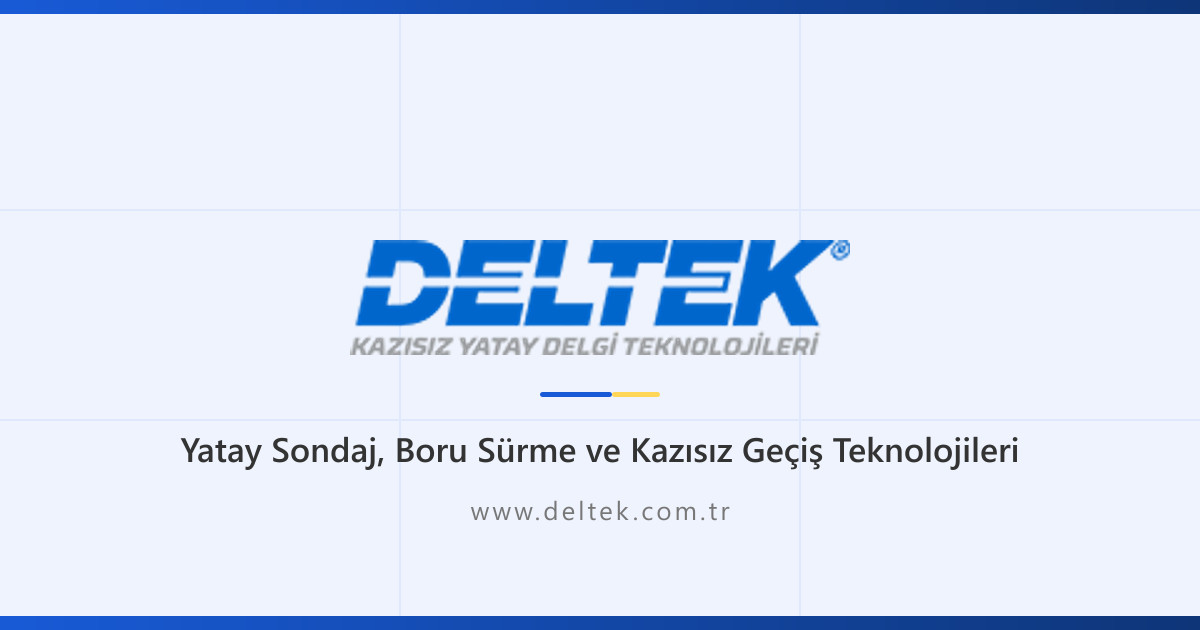
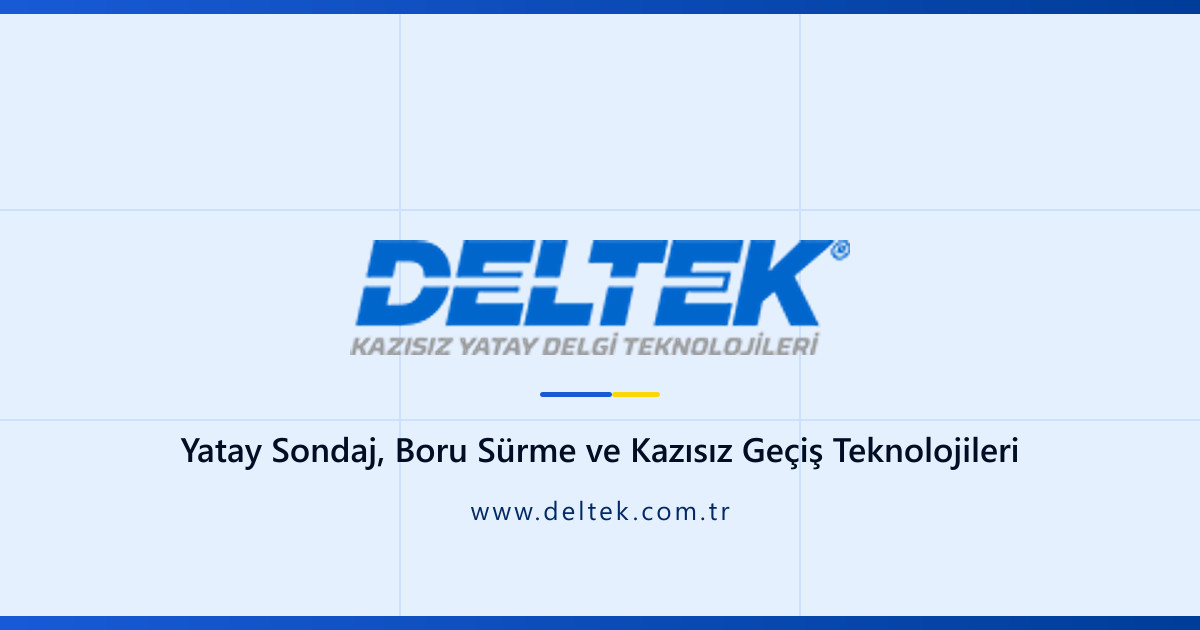
Yeni renk paletini uygula
Tum renkler src/styles/global.css :root'taki palete baglandi. Bilesenlerde
ham hex/rgba kalmadi; saydamlik gerektiren yerlerde rgb(var(--x-rgb) / a)
kullaniliyor.

--marka-mavi (#185AD6) palete eklendi ve DEGISMEDI: baglanti, buton ve
basliklar eskisi gibi duruyor.

Kontrast (WCAG AA) icin duzeltilenler:
- --mute %55 -> %60 karisim (beyaz uzerinde 4.05 -> 5.14)
- amber artik metin rengi degil; acik zeminde vurgulu metin --vurgu-metin
  (--blue-600, 6.82). Telefon butonu hover'inda amber zemin + --blue-950
  yazi (12.0), onceden beyaz yaziyla 1.6 idi
- fotograf uzerindeki slayt govde metni --blue-800 (perde fotografi tam
  beyazlatmadigi icin --mute 3.8'e dusuyordu)
- kapaksiz yazi yer tutucusu --cizgi-2 -> --blue-600 (1.58 -> 5.92)

Denetim: 10 sayfa + 8 slaydin her metin ogesi olculdu, kalan hata yok.

OG betigi de palete gecirildi ve gorsel yeniden uretildi; logo halesi ile
yeni zemin arasindaki fark 1 kanal (kutu gorunmuyor).

diff --git a/src/styles/global.css b/src/styles/global.css
@@ -1,28 +1,66 @@
 /* ═══════════════════════════════════════
    DELTEK — Global CSS
-   Palet canlı deltek.com.tr'den alındı:
-     Mavi   #185AD6  (bağlantılar, butonlar — sitenin ana rengi)
-     Altın  #FFD658  (çizgi/vurgu), #EB9E0F (vurgu metni)
-     Metin  #333 başlık / #777 gövde / #9E9E9E soluk
+
+   RENK PALETİ — sitedeki her renk buradan gelir. Bileşenlerde ham hex/rgba
+   YAZILMAZ; yeni bir tona ihtiyaç olursa önce buraya eklenir.
+   Ayrıntı ve kullanım tablosu: CLAUDE.md → "Renk paleti".
+
    Tipografi: Open Sans (canlı sitenin kullandığı aile)
    ═══════════════════════════════════════ */
 
 :root {
-  --mavi:     #185ad6;
-  --mavi-700: #1449ac;
-  --mavi-900: #0e3578;
-  --mavi-050: #eef3fd;
-  --mavi-100: #dbe6fb;
-  --beyaz:    #ffffff;
-  --kagit:    #f7f8fa;
-  --kagit-2:  #eef0f3;
-  --metin:    #333333;
-  --mute:     #777777;
-  --cizgi:    #e6e8ec;
-  --cizgi-2:  #d5d8de;
-  --sari:     #ffd658;
-  --gold:     #ffc93c;
-  --vurgu:    #eb9e0f;
+  /* ── Palet: mavi ölçeği ─────────────────────────────── */
+  --blue-50:  #E5F0FF;
+  --blue-100: #CCE0FF;
+  --blue-200: #99C2FF;
+  --blue-300: #66A3FF;
+  --blue-400: #3385FF;
+  --blue-500: #0066FF;
+  --blue-600: #0052CC;
+  --blue-700: #003D99;
+  --blue-800: #002966;
+  --blue-900: #001433;
+  --blue-950: #000E24;
+
+  /* ── Palet: marka ve vurgu ──────────────────────────── */
+  --marka-mavi:    #185AD6;   /* Deltek logo mavisi — DEĞİŞMEZ */
+  --gold:          #FFD60A;
+  --sari-okul:     #FFC300;   /* school bus yellow */
+  --koyu-kirmizi:  #A4161A;
+  --beyaz:         #FFFFFF;   /* palette yok ama kaçınılmaz: sayfa zemini, mavi üstü yazı */
+
+  /* ── Saydamlık için RGB üçlüleri ────────────────────── */
+  /* rgba() yerine `rgb(var(--x-rgb) / .45)` yazılır; böylece gölge ve
+     perde renkleri de palete bağlı kalır. */
+  --marka-mavi-rgb: 24 90 214;
+  --blue-500-rgb:   0 102 255;
+  --blue-800-rgb:   0 41 102;
+  --blue-900-rgb:   0 20 51;
+  --blue-950-rgb:   0 14 36;
+  --gold-rgb:       255 214 10;
+  --koyu-kirmizi-rgb: 164 22 26;
+  --beyaz-rgb:      255 255 255;
+
+  /* ── Anlamsal takma adlar — hepsi yukarıdaki paletten türer ── */
+  --mavi:     var(--marka-mavi);   /* bağlantı, buton, başlık vurgusu */
+  --mavi-700: var(--blue-600);     /* buton hover */
+  --mavi-900: var(--blue-700);     /* koyu başlık, koyu yüzey */
+  --mavi-050: var(--blue-50);      /* çok açık mavi zemin */
+  --mavi-100: var(--blue-100);     /* açık mavi zemin */
+  --kagit:    color-mix(in srgb, var(--blue-50) 45%, var(--beyaz));
+  --kagit-2:  var(--blue-50);
+  --metin:    var(--blue-950);     /* başlık/gövde metni */
+  /* %60: beyaz üzerinde 5.14, --kagit üzerinde 4.82 kontrast (WCAG AA ≥4.5).
+     %55'te 4.05'e düşüyordu — gövde metni için yetersizdi. */
+  --mute:     color-mix(in srgb, var(--blue-950) 60%, var(--beyaz));
+  --cizgi:    var(--blue-100);
+  --cizgi-2:  var(--blue-200);
+  --sari:     var(--gold);         /* başlık altı çizgi, menü hover */
+  --vurgu:    var(--sari-okul);    /* ikincil vurgu — YALNIZCA zemin olarak */
+  /* Amber zemin üzerinde beyaz yazı 1.6 kontrast veriyor; amber METİN de açık
+     zeminde okunmuyor. Açık zeminde vurgulu metin bu tonu kullanır (6.82). */
+  --vurgu-metin: var(--blue-600);
+
   --f-dis:    'Open Sans', system-ui, -apple-system, sans-serif;
   --f-metin:  'Open Sans', system-ui, -apple-system, sans-serif;
   --f-veri:   'Open Sans', system-ui, -apple-system, sans-serif;
@@ -52,9 +90,10 @@ a { color: inherit; text-decoration: none; }
   background: radial-gradient(120% 90% at 85% 0%, var(--mavi-050), transparent 55%),
               linear-gradient(180deg, var(--beyaz), var(--kagit)); }
 .hero__grid { position: absolute; inset: 0; z-index: 0; opacity: .6;
-  background-image: linear-gradient(rgba(21,104,189,.08) 1px, transparent 1px),
-                    linear-gradient(90deg, rgba(21,104,189,.08) 1px, transparent 1px);
+  background-image: linear-gradient(rgb(var(--marka-mavi-rgb) / .08) 1px, transparent 1px),
+                    linear-gradient(90deg, rgb(var(--marka-mavi-rgb) / .08) 1px, transparent 1px);
   background-size: 64px 64px;
+  /* Maske: buradaki #000 görünen bir renk değil, opaklık kanalı. Palete bağlanmaz. */
   mask-image: radial-gradient(120% 100% at 72% 40%, #000 25%, transparent 78%); }
 .hero__ic { position: relative; z-index: 2; width: 100%; display: flex; flex-direction: column; gap: 0; padding-block: 0; padding-top: var(--baslik-y, 198px); }
 @media (max-width: 820px) { .hero__ic { padding-top: var(--baslik-y, 96px); } }
@@ -64,12 +103,12 @@ a { color: inherit; text-decoration: none; }
    Buradaki eski kurallar bileşenle çakıştığı için kaldırıldı. */
 
 /* hero bilgi şeridi */
-.hero__ayrac { height: 46px; background: #fff; width: 100%; }
+.hero__ayrac { height: 46px; background: var(--beyaz); width: 100%; }
 .hero__bilgi { background: var(--beyaz); padding: clamp(2.4rem,5vw,4rem) 0; width: 100%; text-align: center; }
 .hero__bilgi .kap { max-width: 1280px; margin-inline: auto; padding-inline: clamp(1.15rem,4vw,2.75rem); }
 .rozet { display: inline-flex; align-items: center; gap: .6rem; font-size: .72rem; letter-spacing: .16em; text-transform: uppercase; color: var(--mavi); border: 1px solid var(--cizgi); background: var(--mavi-050); border-radius: 999px; padding: .4rem .9rem; margin-bottom: 1.4rem; font-weight: 700; }
 .rozet i { width: 7px; height: 7px; background: var(--sari); border-radius: 50%; animation: nabiz 2.4s infinite; }
-@keyframes nabiz { 0% { box-shadow: 0 0 0 0 rgba(253,197,0,.6); } 70% { box-shadow: 0 0 0 8px rgba(253,197,0,0); } 100% { box-shadow: 0 0 0 0 rgba(253,197,0,0); } }
+@keyframes nabiz { 0% { box-shadow: 0 0 0 0 rgb(var(--gold-rgb) / .6); } 70% { box-shadow: 0 0 0 8px rgb(var(--gold-rgb) / 0); } 100% { box-shadow: 0 0 0 0 rgb(var(--gold-rgb) / 0); } }
 .hero__bilgi h1 { font-family: var(--f-dis); font-weight: 800; line-height: 1.18; letter-spacing: -.01em; font-size: clamp(1.5rem,3.4vw,2.2rem); color: var(--mavi); text-wrap: balance; }
 .hero__bilgi h1 em { font-style: normal; color: var(--metin); }
 .hero__bilgi h1::after { content: ""; display: block; width: 68px; height: 3px; margin: 1rem auto 0;
@@ -78,13 +117,13 @@ a { color: inherit; text-decoration: none; }
 .hero__eylem { margin-top: 1.8rem; display: flex; flex-wrap: wrap; gap: .8rem; align-items: center; justify-content: center; }
 
 /* butonlar */
-.btn { position: relative; overflow: hidden; display: inline-flex; align-items: center; gap: .6rem; font-family: var(--f-dis); font-weight: 700; font-size: .98rem; padding: 1rem 1.6rem; border-radius: 999px; border: 1.5px solid transparent; transition: .15s; box-shadow: 0 10px 22px -8px rgba(0,41,107,.35); }
-.btn:hover { box-shadow: 0 14px 28px -8px rgba(0,41,107,.45); }
-.btn--dolu { background: var(--mavi); color: #fff; }
+.btn { position: relative; overflow: hidden; display: inline-flex; align-items: center; gap: .6rem; font-family: var(--f-dis); font-weight: 700; font-size: .98rem; padding: 1rem 1.6rem; border-radius: 999px; border: 1.5px solid transparent; transition: .15s; box-shadow: 0 10px 22px -8px rgb(var(--blue-800-rgb) / .35); }
+.btn:hover { box-shadow: 0 14px 28px -8px rgb(var(--blue-800-rgb) / .45); }
+.btn--dolu { background: var(--mavi); color: var(--beyaz); }
 .btn--dolu:hover { background: var(--mavi-700); transform: translateY(-1px); }
 /* açık zeminde çerçeveli buton — hero artık beyaz */
 .btn--cizgi { background: var(--beyaz); border-color: var(--mavi); color: var(--mavi); box-shadow: none; }
-.btn--cizgi:hover { background: var(--mavi); border-color: var(--mavi); color: #fff; }
+.btn--cizgi:hover { background: var(--mavi); border-color: var(--mavi); color: var(--beyaz); }
 
 
 /* ─── BÖLÜM ORTAK ─────────────────────────────── */
@@ -93,7 +132,7 @@ a { color: inherit; text-decoration: none; }
 
 
 /* ─── ÖZELLİK KARTLARI (hakkımızda) ───────────── */
-.kanit { background: linear-gradient(180deg, var(--kagit), #fff); border-block: 1px solid var(--cizgi); padding-block: clamp(3rem,6vw,5rem); }
+.kanit { background: linear-gradient(180deg, var(--kagit), var(--beyaz)); border-block: 1px solid var(--cizgi); padding-block: clamp(3rem,6vw,5rem); }
 .kanit__bas { max-width: 62ch; margin: 0 auto clamp(2rem,4vw,3rem); text-align: center; }
 .kanit__etiket { display: inline-block; font-family: var(--f-dis); font-weight: 700; font-size: .78rem; letter-spacing: .1em; text-transform: uppercase; color: var(--mavi); background: var(--mavi-050); border: 1px solid var(--cizgi); padding: .38rem .95rem; border-radius: 999px; }
 .kanit__bas h2 { margin-top: 1.1rem; font-family: var(--f-dis); font-weight: 800; font-size: clamp(1.5rem,3.2vw,2.1rem); letter-spacing: -.01em; color: var(--mavi); line-height: 1.25; text-wrap: balance; }
@@ -103,8 +142,8 @@ a { color: inherit; text-decoration: none; }
 .kanit__bas > p { margin-top: 1rem; color: var(--mute); font-size: 1.05rem; line-height: 1.7; text-wrap: pretty; }
 .kanit__ic { display: grid; gap: 1.5rem; }
 @media (min-width: 820px) { .kanit__ic { grid-template-columns: repeat(3,1fr); } }
-.kanit__h { position: relative; overflow: hidden; background: #fff; border: 1px solid var(--cizgi); border-top: 3px solid var(--mavi); border-radius: 14px; padding: 1.9rem 1.7rem 1.7rem; box-shadow: 0 22px 44px -32px rgba(0,41,107,.45); transition: transform .2s ease, box-shadow .2s ease; }
-.kanit__h:hover { transform: translateY(-4px); box-shadow: 0 30px 54px -28px rgba(0,41,107,.55); }
+.kanit__h { position: relative; overflow: hidden; background: var(--beyaz); border: 1px solid var(--cizgi); border-top: 3px solid var(--mavi); border-radius: 14px; padding: 1.9rem 1.7rem 1.7rem; box-shadow: 0 22px 44px -32px rgb(var(--blue-800-rgb) / .45); transition: transform .2s ease, box-shadow .2s ease; }
+.kanit__h:hover { transform: translateY(-4px); box-shadow: 0 30px 54px -28px rgb(var(--blue-800-rgb) / .55); }
 .kanit__no { position: absolute; top: .55rem; right: 1.1rem; font-family: var(--f-dis); font-weight: 800; font-size: 2.6rem; line-height: 1; color: var(--mavi); opacity: .09; pointer-events: none; }
 .kanit__h h4 { position: relative; font-family: var(--f-dis); font-weight: 800; font-size: 1.22rem; letter-spacing: -.01em; color: var(--mavi-900); }
 .kanit__h p { margin-top: .75rem; color: var(--mute); font-size: .96rem; line-height: 1.65; }
@@ -113,13 +152,13 @@ a { color: inherit; text-decoration: none; }
 /* ── Alt çağrı kutusu — tüm sayfalarda ── */
 .bit-cta { margin-top: 1.6rem; display: grid; gap: 1.3rem; align-items: center; background: var(--mavi); border-top: 3px solid var(--sari); border-radius: 8px; padding: clamp(1.6rem,4vw,2.6rem); }
 @media (min-width: 760px) { .bit-cta { grid-template-columns: 1fr auto; } }
-.bit-cta p { font-family: var(--f-dis); font-weight: 800; font-size: clamp(1.15rem,2.6vw,1.6rem); letter-spacing: -.01em; color: #fff; line-height: 1.3; text-wrap: balance; }
-.bit-cta__btn { position: relative; overflow: hidden; display: inline-flex; align-items: center; justify-content: center; gap: .6rem; background: var(--beyaz); color: var(--mavi); padding: 1.05rem 1.9rem; border-radius: 999px; font-family: var(--f-dis); font-weight: 700; font-size: 1.05rem; white-space: nowrap; box-shadow: 0 12px 26px -12px rgba(216,17,89,.55); }
+.bit-cta p { font-family: var(--f-dis); font-weight: 800; font-size: clamp(1.15rem,2.6vw,1.6rem); letter-spacing: -.01em; color: var(--beyaz); line-height: 1.3; text-wrap: balance; }
+.bit-cta__btn { position: relative; overflow: hidden; display: inline-flex; align-items: center; justify-content: center; gap: .6rem; background: var(--beyaz); color: var(--mavi); padding: 1.05rem 1.9rem; border-radius: 999px; font-family: var(--f-dis); font-weight: 700; font-size: 1.05rem; white-space: nowrap; box-shadow: 0 12px 26px -12px rgb(var(--koyu-kirmizi-rgb) / .55); }
 .bit-cta__btn:hover { background: var(--sari); color: var(--metin); }
 /* Tüm .btn telefon butonları paletteki kırmızı (mobil sabit çubuk hariç — o .btn değil) */
-a.btn[href^="tel:"] { background: var(--mavi); color: #fff; border-color: transparent; box-shadow: 0 8px 18px -8px rgba(24,90,214,.6); }
-a.btn[href^="tel:"]:hover { background: var(--vurgu); color: #fff; transform: translateY(-1px); }
-a.btn[href^="tel:"]:active { background: var(--vurgu) !important; color: #fff !important; }
+a.btn[href^="tel:"] { background: var(--mavi); color: var(--beyaz); border-color: transparent; box-shadow: 0 8px 18px -8px rgb(var(--marka-mavi-rgb) / .6); }
+a.btn[href^="tel:"]:hover { background: var(--vurgu); color: var(--blue-950); transform: translateY(-1px); }
+a.btn[href^="tel:"]:active { background: var(--vurgu) !important; color: var(--blue-950) !important; }
 
 section[id] { scroll-margin-top: 150px; }
 
@@ -127,17 +166,19 @@ section[id] { scroll-margin-top: 150px; }
 .sahadan__bas { display: flex; justify-content: space-between; align-items: flex-end; gap: 1rem; flex-wrap: wrap; }
 .sahadan__bas h2 { font-family: var(--f-dis); font-weight: 800; font-size: clamp(1.7rem,4vw,2.7rem); letter-spacing: -.025em; color: var(--mavi-900); margin-top: .9rem; }
 .sahadan__tum { font-family: var(--f-dis); font-weight: 700; font-size: .92rem; color: var(--mavi); white-space: nowrap; padding-bottom: .3rem; }
-.sahadan__tum:hover { color: var(--vurgu); }
+.sahadan__tum:hover { color: var(--vurgu-metin); }
 .sahadan__grid { display: grid; gap: 1.4rem; margin-top: 2.2rem; grid-template-columns: 1fr; }
 @media (min-width: 640px) { .sahadan__grid { grid-template-columns: repeat(2, 1fr); } }
 @media (min-width: 980px) { .sahadan__grid { grid-template-columns: repeat(3, 1fr); } }
-.skart { display: flex; flex-direction: column; border: 1px solid var(--cizgi); border-radius: 4px; overflow: hidden; background: #fff; box-shadow: 0 14px 34px -26px rgba(0,41,107,.4); transition: .2s; }
-.skart:hover { border-color: var(--mavi); box-shadow: 0 20px 40px -22px rgba(0,41,107,.5); transform: translateY(-2px); }
+.skart { display: flex; flex-direction: column; border: 1px solid var(--cizgi); border-radius: 4px; overflow: hidden; background: var(--beyaz); box-shadow: 0 14px 34px -26px rgb(var(--blue-800-rgb) / .4); transition: .2s; }
+.skart:hover { border-color: var(--mavi); box-shadow: 0 20px 40px -22px rgb(var(--blue-800-rgb) / .5); transform: translateY(-2px); }
 .skart__g { position: relative; aspect-ratio: 16/10; overflow: hidden; background: var(--kagit-2); }
 .skart__g img { width: 100%; height: 100%; object-fit: cover; transition: transform .4s; }
 .skart:hover .skart__g img { transform: scale(1.05); }
-.skart__yok { width: 100%; height: 100%; display: grid; place-items: center; font-family: var(--f-dis); font-weight: 800; color: var(--cizgi-2); letter-spacing: .1em; }
-.skart__vid { position: absolute; inset: 0; margin: auto; width: 52px; height: 52px; display: grid; place-items: center; background: rgba(0,41,107,.72); color: #fff; border-radius: 50%; font-size: 1.05rem; padding-left: 4px; }
+/* Kapağı olmayan yazının yer tutucusu. --cizgi-2 idi; --kagit-2 üzerinde 1.58
+   kontrast veriyordu (okunmuyordu). --blue-600 ile 5.92. */
+.skart__yok { width: 100%; height: 100%; display: grid; place-items: center; font-family: var(--f-dis); font-weight: 800; color: var(--blue-600); letter-spacing: .1em; }
+.skart__vid { position: absolute; inset: 0; margin: auto; width: 52px; height: 52px; display: grid; place-items: center; background: rgb(var(--blue-800-rgb) / .72); color: var(--beyaz); border-radius: 50%; font-size: 1.05rem; padding-left: 4px; }
 .skart__b { padding: 1.1rem 1.2rem 1.3rem; display: flex; flex-direction: column; gap: .4rem; flex: 1; }
 .skart__tarih { font-family: var(--f-veri); font-size: .68rem; letter-spacing: .1em; text-transform: uppercase; color: var(--mavi); }
 .skart__b h3 { font-family: var(--f-dis); font-weight: 800; font-size: 1.12rem; color: var(--mavi-900); letter-spacing: -.01em; }

diff --git a/CLAUDE.md b/CLAUDE.md
@@ -238,17 +238,92 @@ bileşeni (`kaya-akis`), makine vitrin kartları ve maskot blokları. Kategori
 açılır menüsü ile ikon şeridi iskelette duruyor ama `KATEGORILER` boş olduğu
 için gizli (`src/data/site.ts`).
 
-## Görsel dil
+## Renk paleti
 
-Canlı deltek.com.tr'den alındı, `src/styles/global.css` `:root` içinde tanımlı.
+**Sitedeki her renk bu paletten gelir.** Tanım tek yerde: `src/styles/global.css`
+`:root`. Bileşenlerde ham `#hex` ya da `rgba()` **yazılmaz**; yeni bir tona
+ihtiyaç olursa önce buraya eklenir.
 
-| Değişken | Değer | Nerede |
+### Palet
+
+| Değişken | Değer | | Değişken | Değer |
+| --- | --- | --- | --- | --- |
+| `--blue-50` | `#E5F0FF` | | `--blue-600` | `#0052CC` |
+| `--blue-100` | `#CCE0FF` | | `--blue-700` | `#003D99` |
+| `--blue-200` | `#99C2FF` | | `--blue-800` | `#002966` |
+| `--blue-300` | `#66A3FF` | | `--blue-900` | `#001433` |
+| `--blue-400` | `#3385FF` | | `--blue-950` | `#000E24` |
+| `--blue-500` | `#0066FF` | | `--marka-mavi` | `#185AD6` |
+| `--gold` | `#FFD60A` | | `--sari-okul` | `#FFC300` |
+| `--koyu-kirmizi` | `#A4161A` | | `--beyaz` | `#FFFFFF` |
+
+`--marka-mavi` **Deltek logo mavisi ve değişmez** — bağlantılar, butonlar,
+başlıklar bu rengi kullanmaya devam eder. `--beyaz` paletin parçası değil ama
+kaçınılmaz (sayfa zemini, mavi üstündeki yazı).
+
+### Anlamsal takma adlar
+
+Bileşenler doğrudan `--blue-*` yerine bunları kullanır; böylece paletteki bir
+tonu değiştirmek tüm siteye tek yerden yansır.
+
+| Takma ad | Kaynak | Nerede |
 | --- | --- | --- |
-| `--mavi` | `#185ad6` | bağlantılar, butonlar, başlıklar — sitenin ana rengi |
-| `--mavi-700` / `--mavi-900` | `#1449ac` / `#0e3578` | koyu yüzeyler, slider degradesi |
-| `--sari` | `#ffd658` | başlık altı çizgi, menü hover, CTA üst şeridi |
-| `--vurgu` | `#eb9e0f` | ikincil vurgu (buton hover) |
-| `--metin` / `--mute` | `#333` / `#777` | başlık / gövde metni |
+| `--mavi` | `--marka-mavi` | bağlantı, buton, başlık vurgusu |
+| `--mavi-700` | `--blue-600` | buton hover |
+| `--mavi-900` | `--blue-700` | koyu başlık, koyu yüzey |
+| `--mavi-050` / `--mavi-100` | `--blue-50` / `--blue-100` | açık mavi zeminler |
+| `--kagit` | `--blue-50` %45 + beyaz | sayfa/footer zemini |
+| `--kagit-2` | `--blue-50` | görsel yer tutucu zemini |
+| `--metin` | `--blue-950` | başlık metni |
+| `--mute` | `--blue-950` %60 + beyaz | gövde metni |
+| `--cizgi` / `--cizgi-2` | `--blue-100` / `--blue-200` | kenarlıklar |
+| `--sari` | `--gold` | başlık altı çizgi, menü hover, CTA şeridi |
+| `--vurgu` | `--sari-okul` | ikincil vurgu — **yalnızca zemin olarak** |
+| `--vurgu-metin` | `--blue-600` | açık zeminde vurgulu metin |
+
+### Saydamlık
+
+`rgba(...)` yazmak yerine RGB üçlüsü değişkenleri kullanılır, böylece gölgeler
+ve perdeler de palete bağlı kalır:
+
+```css
+box-shadow: 0 10px 22px -8px rgb(var(--blue-800-rgb) / .35);
+```
+
+Tanımlı üçlüler: `--marka-mavi-rgb`, `--blue-500-rgb`, `--blue-800-rgb`,
+`--blue-900-rgb`, `--blue-950-rgb`, `--gold-rgb`, `--koyu-kirmizi-rgb`,
+`--beyaz-rgb`.
+
+### Kontrast kuralları (WCAG AA)
+
+Paleti uygularken ölçülen ve düzeltilen tuzaklar — yeni renk seçerken bunlara
+dikkat edin:
+
+- **Amber (`--sari-okul` / `--gold`) metin rengi olarak kullanılamaz.** Açık
+  zeminde 1.6 kontrast veriyor. Zemin olarak kullanılır ve üstüne
+  `--blue-950` yazılır (12.0). Açık zeminde vurgulu metin için `--vurgu-metin`.
+- **`--mute` en az `--blue-950` %60 karışımı olmalı.** %55'te beyaz üzerinde
+  4.05'e düşüyor, AA sınırının (4.5) altında. %60 → 5.14.
+- **Fotoğraf üzerindeki gövde metni `--mute` kullanmaz.** Perde fotoğrafı tam
+  beyazlatmadığı için 3.8'e düşüyor; açık slaytlarda `--blue-800` kullanılır.
+- **Açık mavi tonlar (`--blue-200`/`--blue-300`) metin için değildir.**
+  `--blue-50` üzerinde 1.6–2.2 veriyor; kenarlık ve ayraç içindir.
+
+Denetim yöntemi: sayfadaki her metin ögesinin hesaplanan rengi ile ardındaki
+gerçek zemin bulunup WCAG oranı hesaplanır. Slayt yazıları için zemin, arka
+plan fotoğrafı canvas'a çizilip metin kutusunun altındaki ortalama renk
+alınarak ve perde bindirilerek bulunur (`color-mix` çıktısı `color(srgb 0..1)`
+biçiminde gelir — ayrıştırırken 0-255'e çevirmeyi unutmayın).
+
+> **Tuzak:** değiştirme betikleri `#FFFFFF → var(--beyaz)` gibi bir kuralı
+> paletin kendi tanımına da uygulayıp `--beyaz: var(--beyaz)` döngüsü
+> yaratabilir. Döngüsel özel değişken geçersizdir; ona bağlı `color-mix`
+> değerleri de çöker ve metin siyaha düşer. Değişiklikten sonra
+> `--mute` / `--kagit` gerçekten hesaplanıyor mu diye bakın.
+
+**OG görseli** paleti SVG içinde elle kopyalar (`scripts/og-gorsel-uret.mjs`,
+`MAVI`/`SARI`/`ZEMIN`… sabitleri) — CSS değişkeni okuyamıyor. Palet değişirse
+o dosya da güncellenip `npm run og` yeniden çalıştırılmalı.
 
 **Tipografi:** Open Sans (Google Fonts'tan `display=swap` ile yükleniyor —
 canlı sitenin kullandığı aile). Üç font değişkeni de (`--f-dis`, `--f-metin`,
